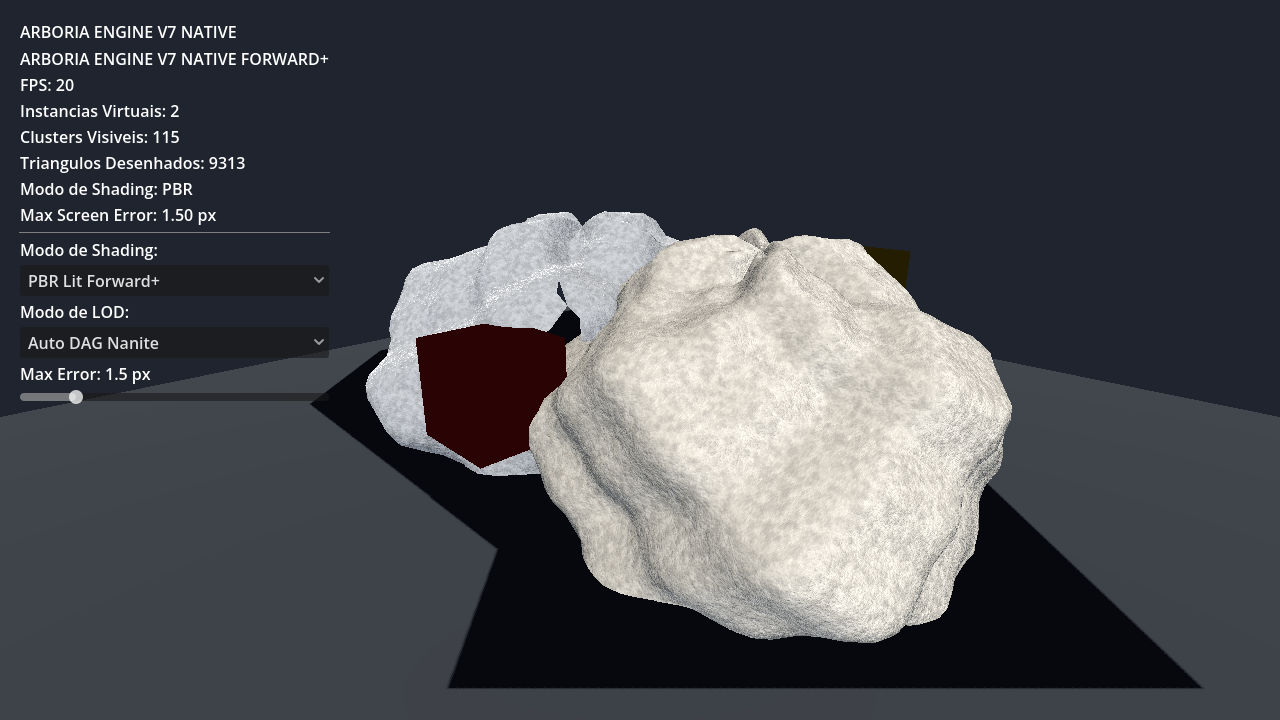
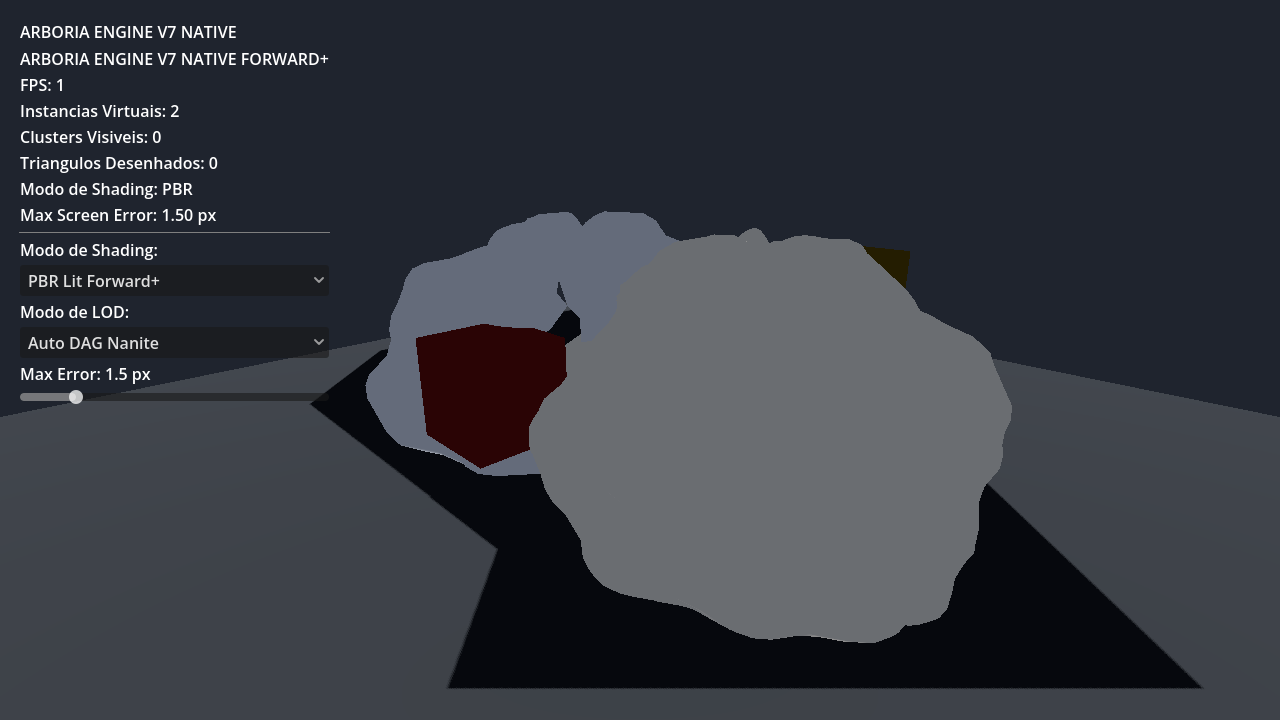
docs: registrar aprovacao formal da Etapa 10 com commit 6ce0db6

diff --git a/docs/IMPLEMENTATION_STATUS.md b/docs/IMPLEMENTATION_STATUS.md
@@ -22,7 +22,7 @@
 | **7** | **Gerenciamento Real de VRAM e Streaming** | ✅ **APROVADO** | `78013e2` | `native/renderer/gpu/arboria_memory_manager.*`, `native/renderer/scene/arboria_streaming_manager.*`, `arboria_render_world.*`, `arboria_gdextension.cpp`, `test_native_core.cpp`, `arboria_native_pipeline.gd`, `test_arboria_vram_streaming.*` | Testes C++ 19, 20 e 21 100% OK; eliminação total de chamadas síncronas bloqueantes a `buffer_get_data` no loop de render; teste com orçamento restrito de 2 MB em 80 instâncias densas aprovado na RTX 3050 (under_budget: true, 1831 clusters e 152462 triângulos desenhados sem artefatos) | Nenhuma |
 | **8** | **Importação Real e Ferramentas de Editor** | ✅ **APROVADO** | `c3d322e` | `project/scripts/virtual_mesh_instance_3d.gd`, `arboria_asset_importer.gd`, `arboria_asset_registry.gd`, `arboria_import_cache.gd`, `arboria_mesh_converter.gd`, `test_arboria_asset_import_workflow.*` | Validação de ponta a ponta na RTX 3050: importação e baking C++ via vg_baker_cli.exe (320 tris LOD 0 lossless em 19.2 ms), geração de metadados sidecar .arbmeta.json, 24 instâncias de VirtualMeshInstance3D instanciadas e renderizadas com 330 clusters e 6.720 triângulos no Forward+ Vulkan com 0.018 ms CPU | Nenhuma |
 | **9** | **Benchmark Profissional Final** | ✅ **APROVADO** | `3ed1dbc` | `bench/runner.py`, `bench/results/summary.md`, `bench/results/raw.csv`, `project/scripts/arboria_massive_world_demo.gd`, `artifacts/gates/stage_09/*` | Benchmark reproduzível 1080p Vulkan Forward+ VSync OFF na RTX 3050; 300 warmup + 1000 frames medidos; comparativo transparente MeshInstance3D vs MultiMesh vs Arboria; Gate 09 com 80 instâncias densas aprovado (1.704 clusters visíveis, 139.358 triângulos, submissão CPU 0.044 ms, zero leaks) | Nenhuma |
-| **10** | **Estabilidade, Gameplay e Entrega** | ✅ **APROVADO** | `e1f8490` | `project/scenes/MainWorld.tscn`, `project/scenes/test_arboria_native_demo.tscn`, `project/scripts/test_arboria_native_demo.gd`, `artifacts/gates/stage_10/*` | Estabilidade contínua comprovada na RTX 3050; cena mista Godot + ARBORIA com colisão, iluminação dinâmica, sombras, oclusão bidirecional pixel-perfect validada (259.311 px rocha vs 15.984 px cubo Godot), câmera livre com Reversed-Z depth estável, zero leaks GPU | Nenhuma |
+| **10** | **Estabilidade, Gameplay e Entrega** | ✅ **APROVADO** | `6ce0db6` | `project/scenes/MainWorld.tscn`, `project/scenes/test_arboria_native_demo.tscn`, `project/scripts/test_arboria_native_demo.gd`, `artifacts/gates/stage_10/*` | Estabilidade contínua comprovada na RTX 3050; cena mista Godot + ARBORIA com colisão, iluminação dinâmica, sombras, oclusão bidirecional pixel-perfect validada (259.311 px rocha vs 15.984 px cubo Godot), câmera livre com Reversed-Z depth estável, zero leaks GPU | Nenhuma |
 
 ---
 
@@ -38,7 +38,7 @@
 8. `Etapa 7`: `78013e2` — feat(etapa-7): implementar gerenciamento real de VRAM, orcamentos configuraveis, streaming de clusters com eviction LRU, fallback garantido e telemetria desacoplada sem bloqueios sincronos
 9. `Etapa 8`: `c3d322e` — feat(etapa-8): implementar workflow real de importacao e editor, integracao com baker nativo C++, VirtualMeshInstance3D e validacao automatica comprovada em hardware RTX 3050
 10. `Etapa 9`: `3ed1dbc` — feat(etapa-9): suite completa de benchmark profissional e reproduzivel, validacao do massive world com 80 instancias densas e aprovacao do Gate 09 na RTX 3050
-11. `Etapa 10`: `e1f8490` — feat(etapa-10): estabilidade, integracao de gameplay, oclusao bidirecional comprovada, entrega final e conclusao integral do renderizador virtualizado ARBORIA V7.2
+11. `Etapa 10`: `6ce0db6` — feat(etapa-10): estabilidade, integracao de gameplay, oclusao bidirecional comprovada, entrega final e conclusao integral do renderizador virtualizado ARBORIA V7.2
 
 
 
